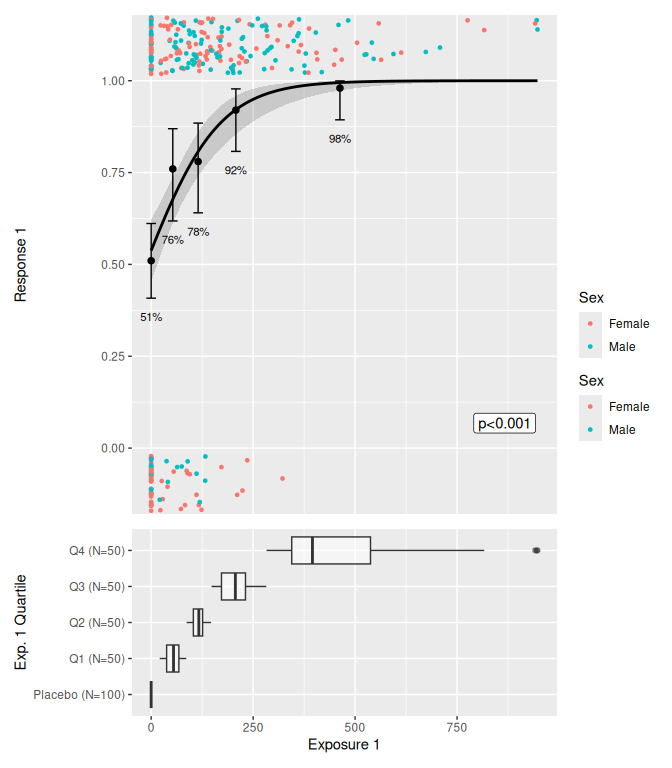
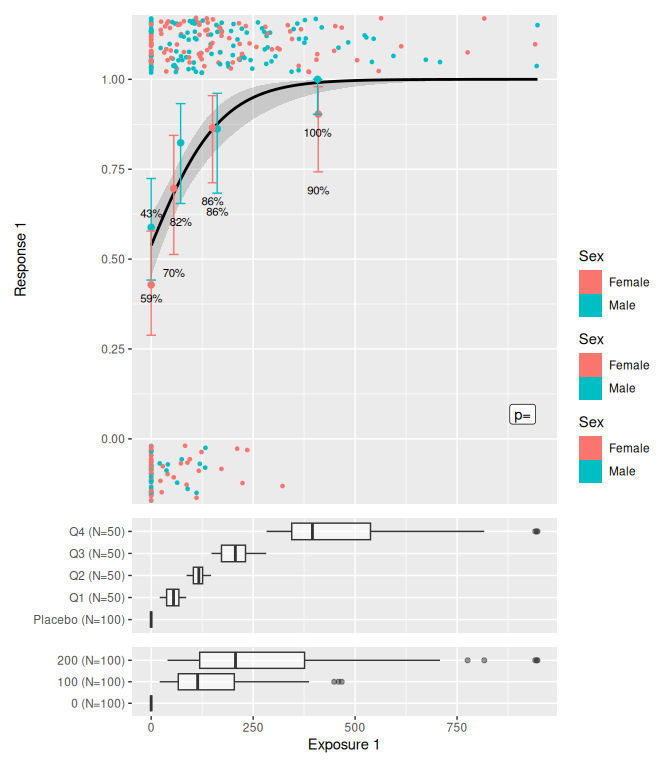
update docs

diff --git a/README.md b/README.md
@@ -69,8 +69,8 @@ mod
 lr_data |> 
   lr_plot(exposure_1, response_1) |> 
   lr_plot_show_model() |> 
-  lr_plot_show_quantiles(bins = 4) |> 
-  lr_plot_show_groups(quartile_1) |> 
+  lr_plot_show_quantiles() |> 
+  lr_plot_show_groups(dose) |> 
   plot()
 ```
 
@@ -79,28 +79,15 @@ lr_data |>
 ``` r
 
 lr_data |> 
-  lr_plot(exposure_1, response_1) |> 
-  lr_plot_show_model() |> 
-  lr_plot_show_quantiles(bins = 4) |> 
-  lr_plot_show_datastrip(sex) |> 
-  lr_plot_show_groups(quartile_1) |> 
-  plot()  
+   lr_plot(exposure_1, response_1, color_by = sex) |> 
+   lr_plot_show_model(use_color = FALSE) |> 
+   lr_plot_show_quantiles(bins = 3) |> 
+   lr_plot_show_datastrip() |> 
+   lr_plot_show_groups(group_by = c(quartile_1, dose), use_color = FALSE) |> 
+   plot()
 ```
 
 <img src="man/figures/README-lr-plot-2.png" width="100%" />
-
-``` r
-
-lr_data |> 
-  lr_plot(exposure_1, response_1, sex) |> 
-  lr_plot_show_model() |> 
-  lr_plot_show_quantiles(bins = 4) |> 
-  lr_plot_show_datastrip() |> 
-  lr_plot_show_groups(c(quartile_1, dose)) |> 
-  plot()
-```
-
-<img src="man/figures/README-lr-plot-3.png" width="100%" />
 
 ## Stepwise covariate modelling
 
